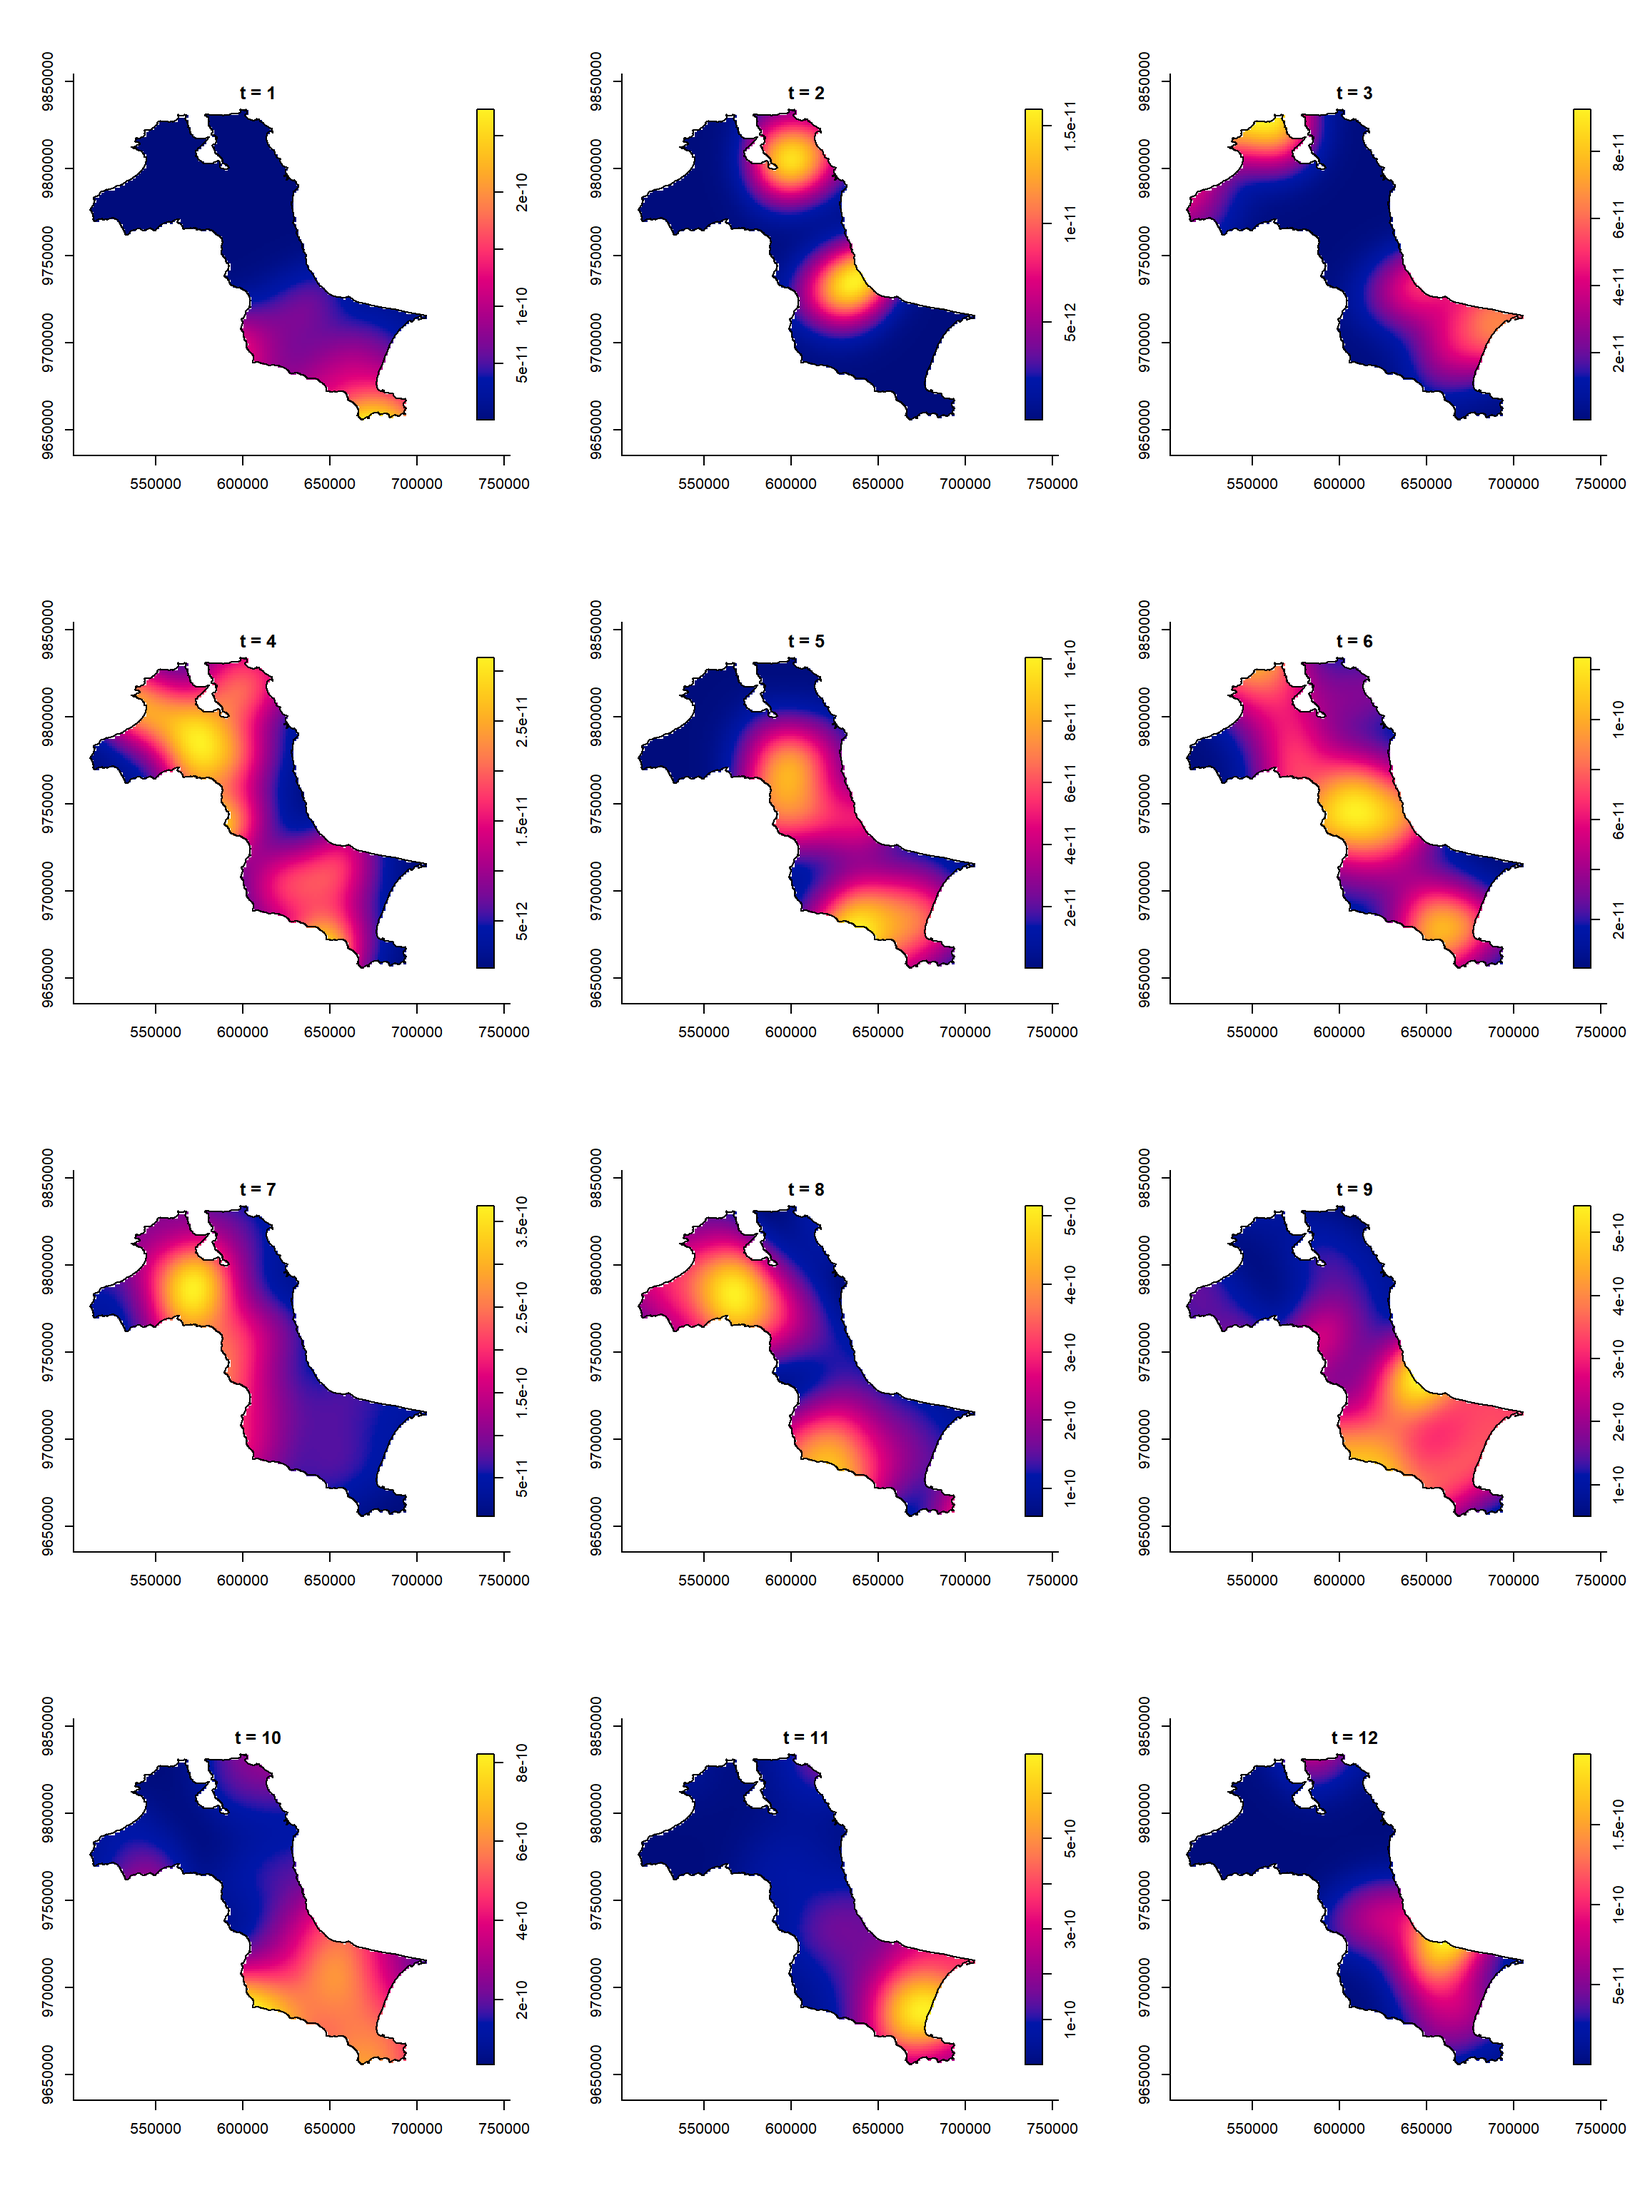
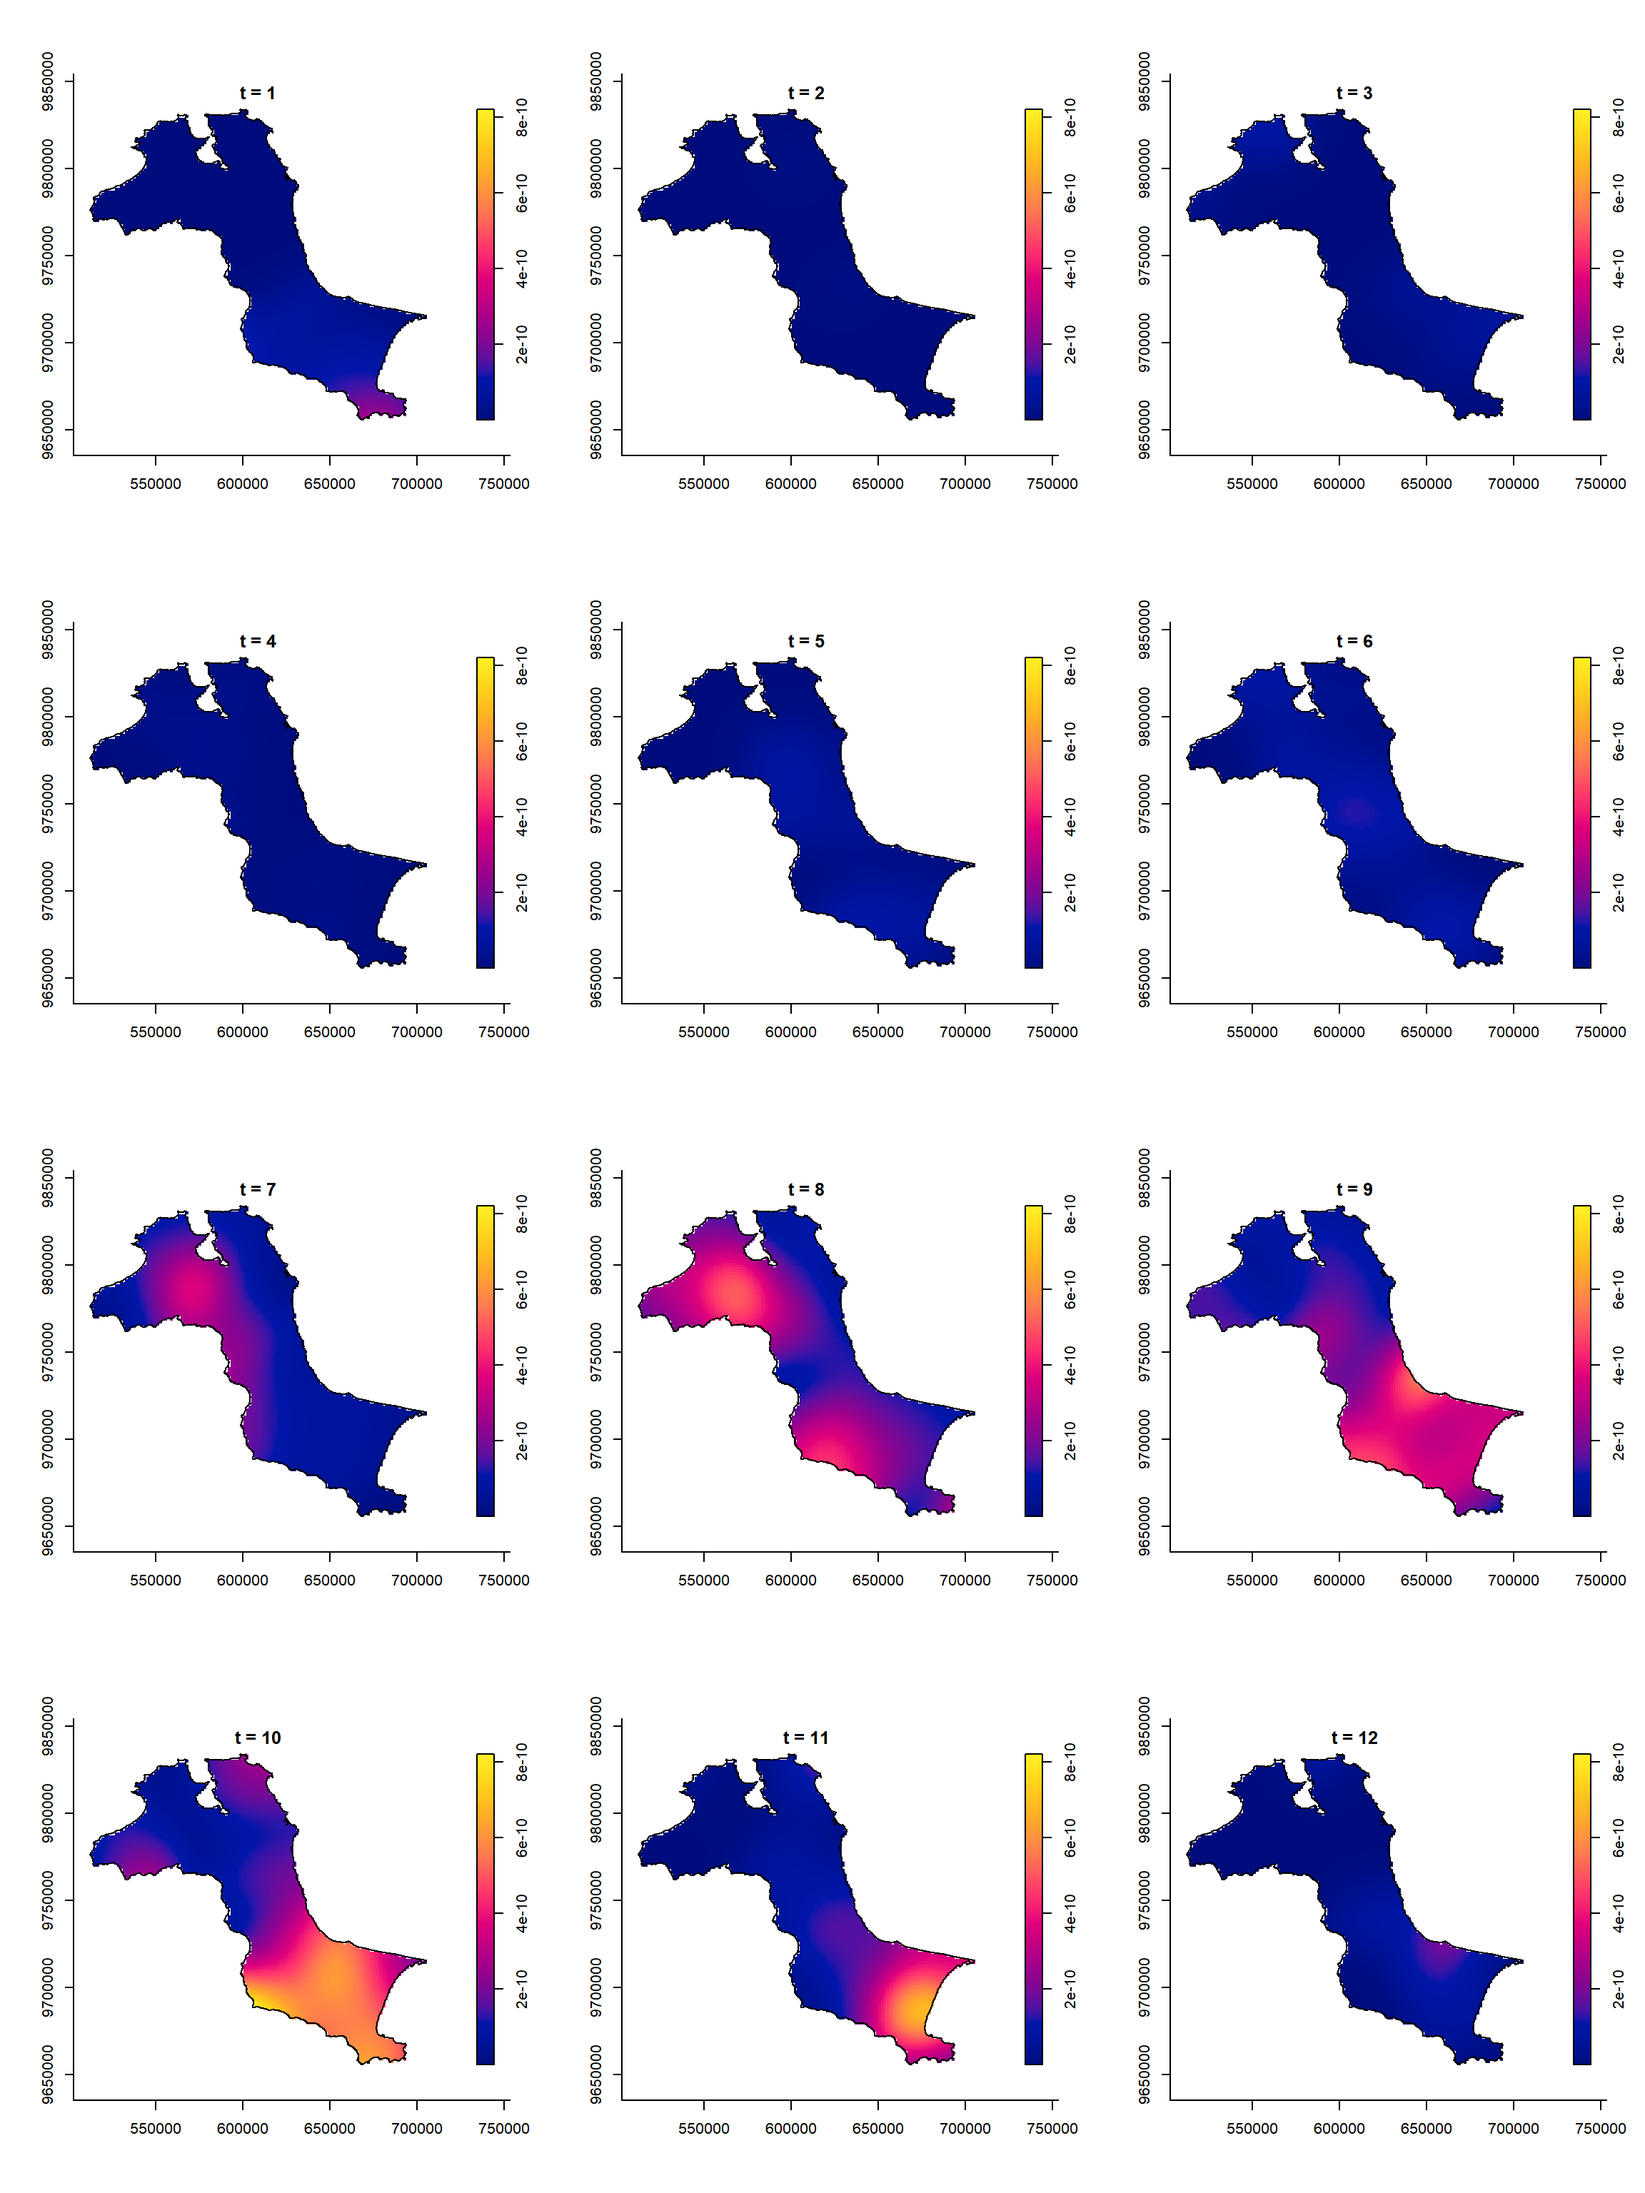
commit

diff --git a/_site/Hands-on_Ex/Hands-on_Ex03/Hands-on_Ex03.html b/_site/Hands-on_Ex/Hands-on_Ex03/Hands-on_Ex03.html
@@ -984,10 +984,10 @@ Evaluation
 </div>
 </div>
 </div>
-<p>Here we quickly plot the monthly KDE.</p>
+<p>Here we quickly plot the monthly KDE. The <code>fix.range = TRUE</code> argument is important: without a common colour scale, months with few events are exaggerated and low-activity months can look quite intense.</p>
 <div class="cell">
 <div class="code-copy-outer-scaffold"><div class="sourceCode cell-code" id="cb45"><pre class="sourceCode r code-with-copy"><code class="sourceCode r"><span id="cb45-1"><a href="#cb45-1" aria-hidden="true" tabindex="-1"></a><span class="fu">par</span>(<span class="at">mfrow =</span> <span class="fu">c</span>(<span class="dv">4</span>,<span class="dv">3</span>))</span>
-<span id="cb45-2"><a href="#cb45-2" aria-hidden="true" tabindex="-1"></a><span class="fu">plot</span>(st_kde, <span class="at">override.par =</span> <span class="cn">FALSE</span>)</span></code></pre></div><button title="Copy to Clipboard" class="code-copy-button"><i class="bi"></i></button></div>
+<span id="cb45-2"><a href="#cb45-2" aria-hidden="true" tabindex="-1"></a><span class="fu">plot</span>(st_kde, <span class="at">override.par =</span> <span class="cn">FALSE</span>, <span class="at">fix.range =</span> <span class="cn">TRUE</span>)</span></code></pre></div><button title="Copy to Clipboard" class="code-copy-button"><i class="bi"></i></button></div>
 <div class="cell-output-display">
 <div>
 <figure class="figure">
